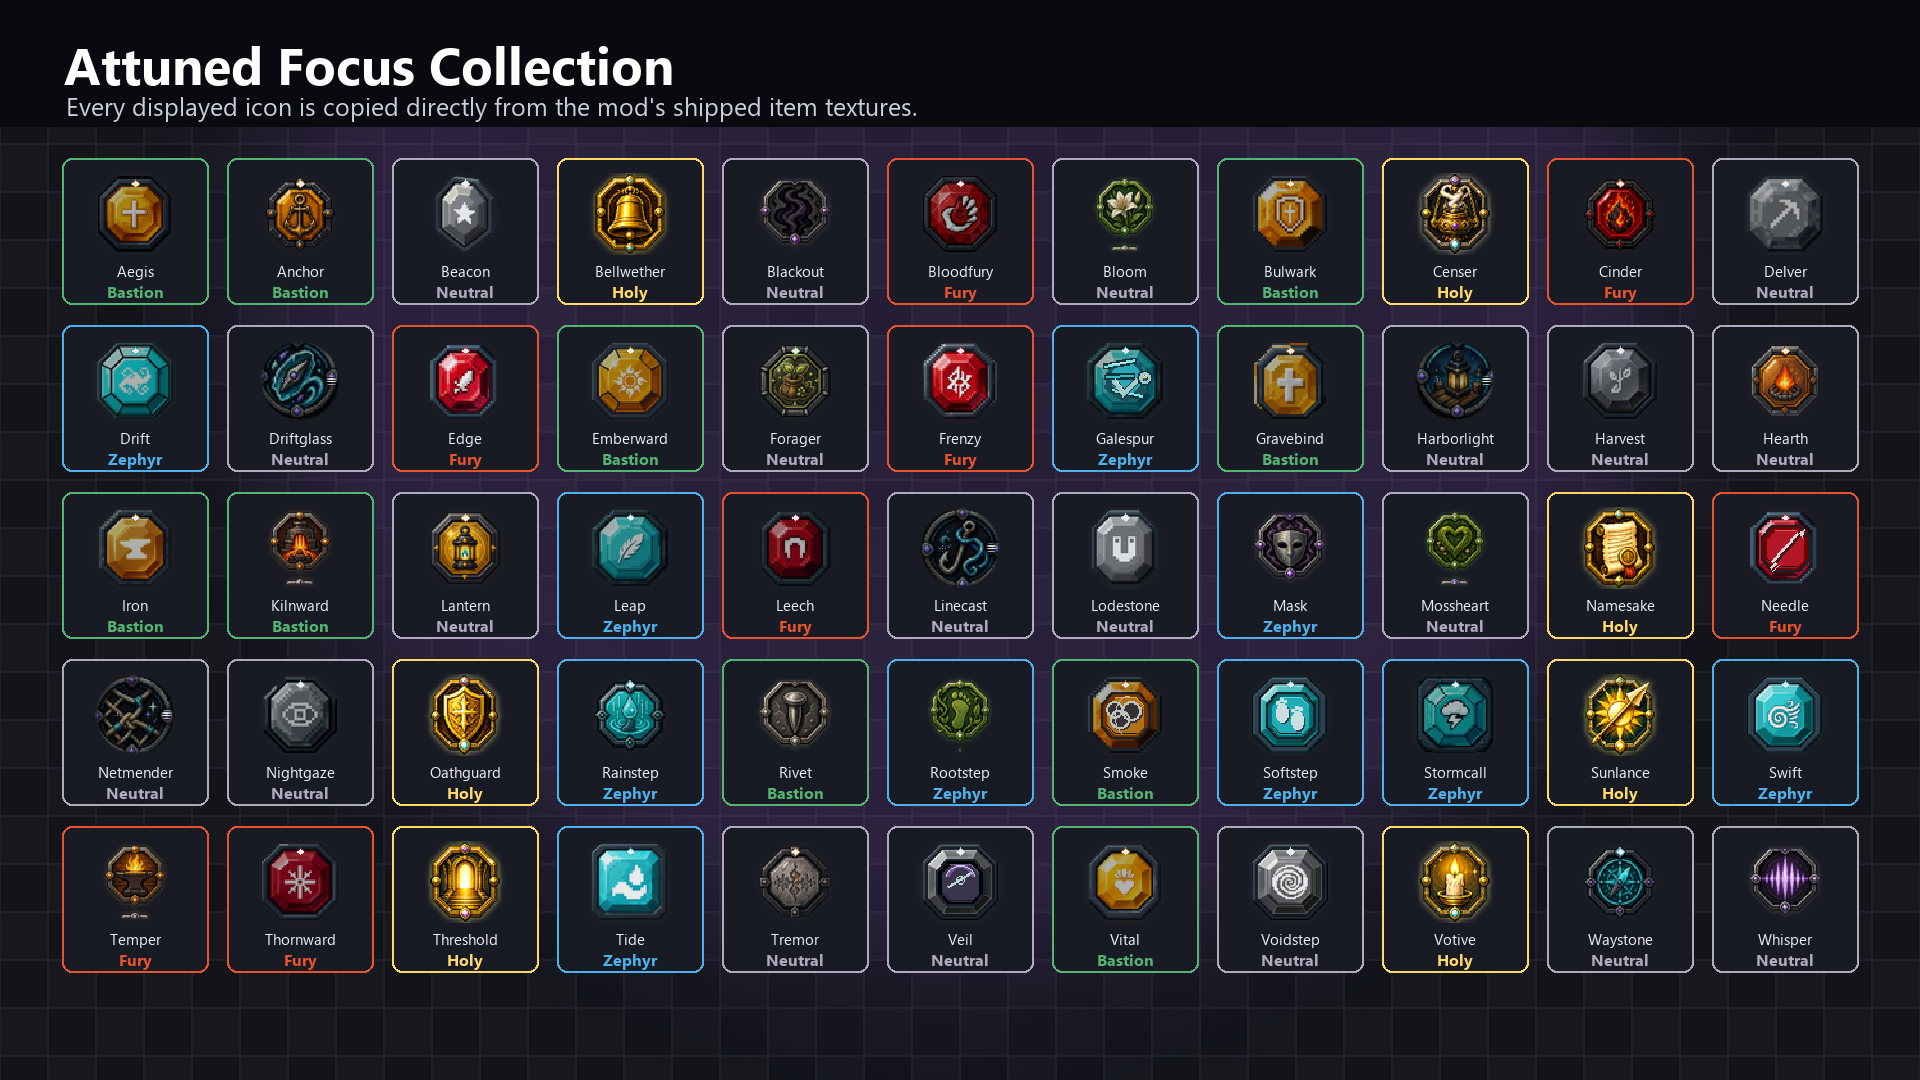
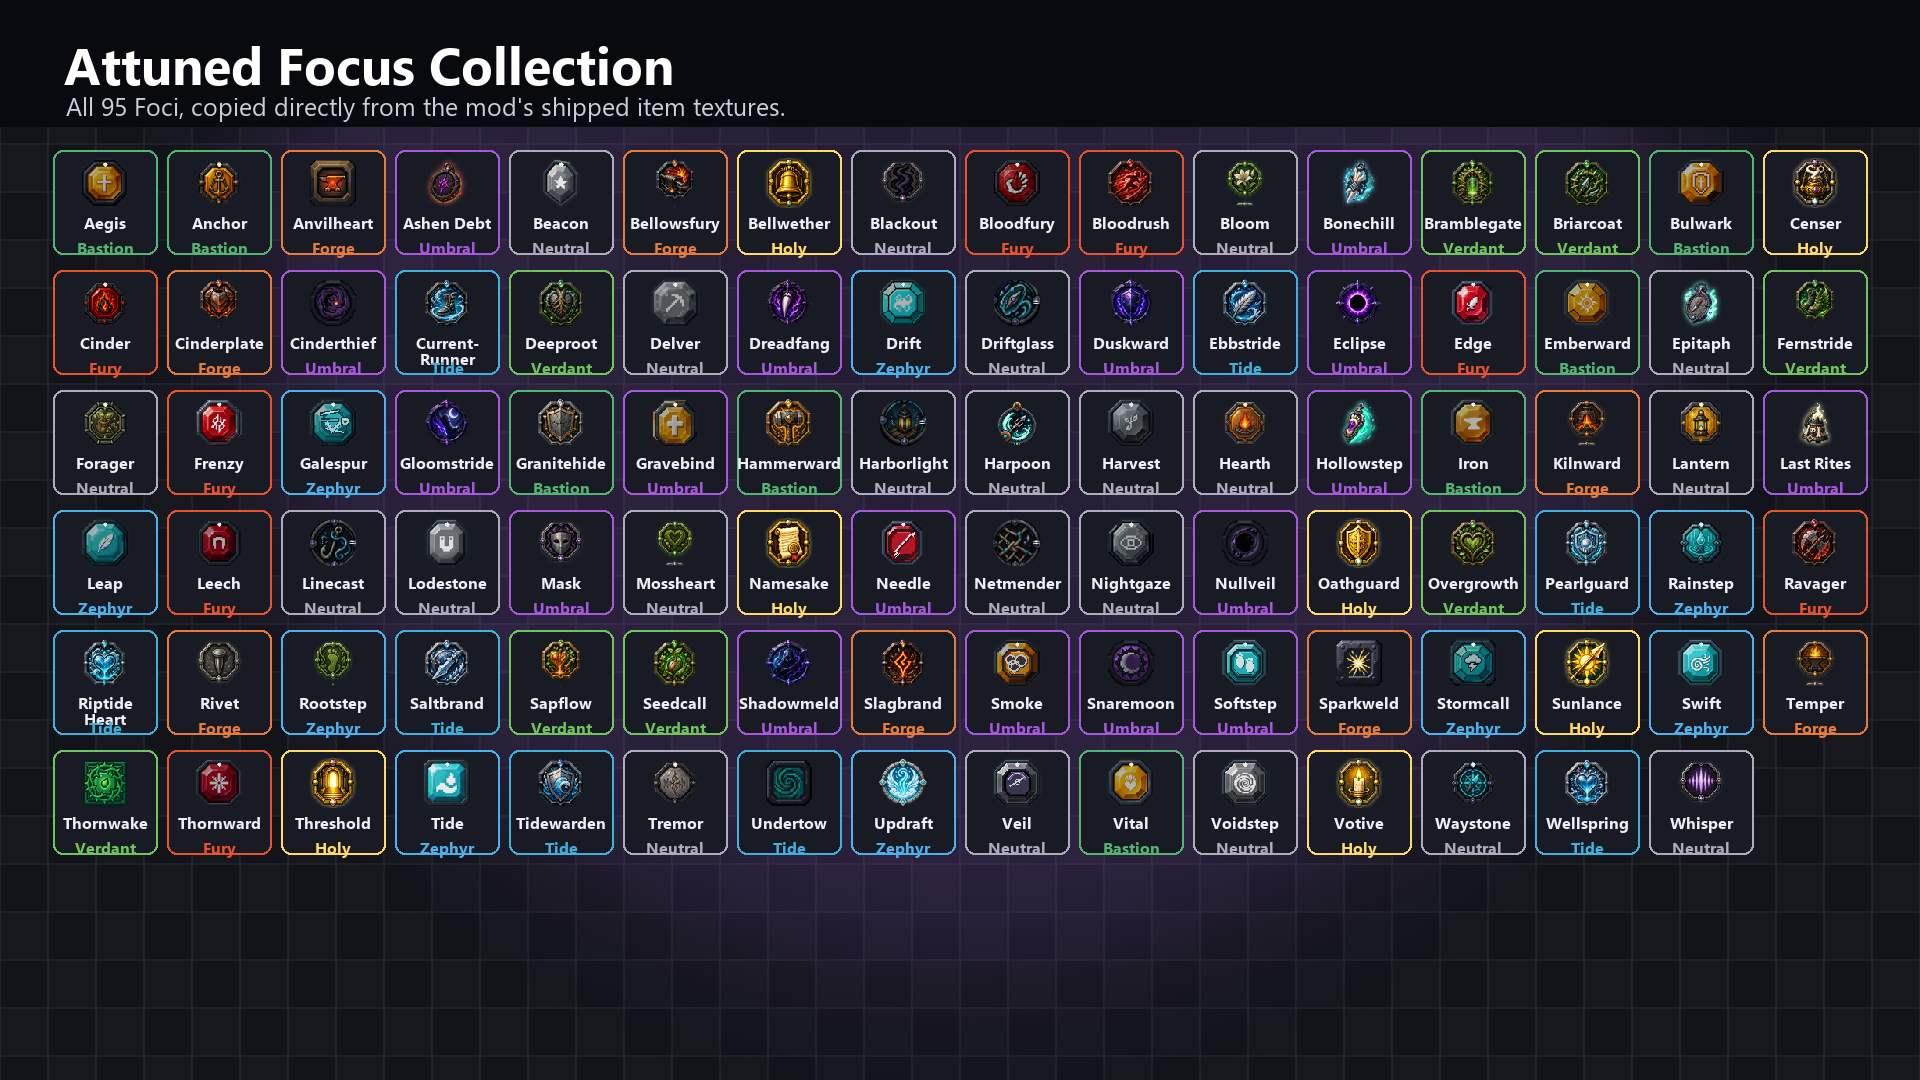
Refresh platform gallery coverage

diff --git a/tools/generate_modrinth_gallery.py b/tools/generate_modrinth_gallery.py
@@ -25,6 +25,10 @@ AFFINITY_LABELS = {
 	"bastion": "Bastion",
 	"zephyr": "Zephyr",
 	"holy": "Holy",
+	"tide": "Tide",
+	"forge": "Forge",
+	"verdant": "Verdant",
+	"umbral": "Umbral",
 	"neutral": "Neutral",
 }
 
@@ -33,6 +37,10 @@ AFFINITY_COLORS = {
 	"bastion": (84, 180, 116),
 	"zephyr": (77, 178, 235),
 	"holy": (255, 218, 105),
+	"tide": (64, 177, 222),
+	"forge": (230, 124, 60),
+	"verdant": (112, 196, 94),
+	"umbral": (168, 88, 220),
 	"neutral": (176, 170, 190),
 }
 
@@ -41,7 +49,38 @@ PANEL_ORDER = [
 	("bastion", "Bastion Foci", "Defensive relics for armor, resistance, survival, and held ground."),
 	("zephyr", "Zephyr Foci", "Mobility relics for speed, air, weather, travel, and quiet movement."),
 	("holy", "Holy Foci", "Radiant and reliquary relics built around light, vows, witness, and protection."),
+	("tide", "Tide Foci", "Water, current, pearl, and seafaring relics for swimming, control, and resilient pressure."),
+	("forge", "Forge Foci", "Cinder, anvil, kiln, and spark relics for heat, armor, toughness, and tempo."),
+	("verdant", "Verdant Foci", "Root, fern, sap, thorn, and seed relics for growth, vitality, and mobile defense."),
 ]
+
+ITEM_PANEL_ASSETS = (
+	("item", "attunement_shard"),
+	("item", "attunement_shard_fragment"),
+	("item", "attunement_journal"),
+	("item", "satchel_of_foci"),
+	("item", "grand_satchel_of_foci"),
+	("item", "ocean_relic_trident"),
+	("item", "frostbound_trident"),
+	("item", "offshore_harpoon"),
+	("item", "custom_focus_1"),
+	("item", "custom_focus_2"),
+	("item", "custom_focus_3"),
+	("item", "custom_focus_4"),
+	("item", "custom_focus_5"),
+	("item", "custom_focus_6"),
+	("item", "custom_focus_7"),
+	("item", "custom_focus_8"),
+	("block", "attunement_altar_top_fury"),
+	("block", "attunement_altar_top_bastion"),
+	("block", "attunement_altar_top_zephyr"),
+	("block", "attunement_altar_top_holy"),
+	("block", "attunement_altar_top_tide"),
+	("block", "attunement_altar_top_forge"),
+	("block", "attunement_altar_top_verdant"),
+	("block", "attunement_altar_top_umbral"),
+	("block", "altar_of_reweaving_top"),
+)
 
 
 @dataclass(frozen=True)
@@ -54,6 +93,15 @@ class Focus:
 	lore: tuple[str, str]
 	effect: str
 	texture: Path
+
+
+@dataclass(frozen=True)
+class GalleryAsset:
+	id: str
+	name: str
+	kind: str
+	texture: Path
+	description: str
 
 
 def load_font(name: str, size: int) -> ImageFont.FreeTypeFont | ImageFont.ImageFont:
@@ -97,6 +145,10 @@ def clean_faction(faction: str) -> str:
 	return raw.replace("_", " ").title()
 
 
+def title_from_id(item_id: str) -> str:
+	return item_id.replace("_", " ").title()
+
+
 def load_foci() -> list[Focus]:
 	lang = json.loads(LANG_FILE.read_text(encoding="utf-8"))
 	foci: list[Focus] = []
@@ -125,6 +177,47 @@ def load_foci() -> list[Focus]:
 			)
 		)
 	return foci
+
+
+def load_gallery_assets() -> list[GalleryAsset]:
+	lang = json.loads(LANG_FILE.read_text(encoding="utf-8"))
+	descriptions = {
+		"attunement_shard": "Capacity progression item used at the Attunement Altar.",
+		"attunement_shard_fragment": "Smaller loot reward; four fragments craft into one shard.",
+		"attunement_journal": "The in-game guide for Foci, pacts, affinities, and matchup reference.",
+		"satchel_of_foci": "Focus Reliquary storage with equipped-slot management and saved builds.",
+		"grand_satchel_of_foci": "Expanded 54-slot reliquary for larger Focus collections.",
+		"ocean_relic_trident": "Seafaring trident model with custom inventory and held art.",
+		"frostbound_trident": "Icy trident model with its own voxel-style item art.",
+		"offshore_harpoon": "Offshore utility weapon art alongside the seafaring relic set.",
+		"custom_focus_1": "Resource-pack-skinnable blank Focus shell for datapack authors.",
+		"custom_focus_2": "Resource-pack-skinnable blank Focus shell for datapack authors.",
+		"custom_focus_3": "Resource-pack-skinnable blank Focus shell for datapack authors.",
+		"custom_focus_4": "Resource-pack-skinnable blank Focus shell for datapack authors.",
+		"custom_focus_5": "Resource-pack-skinnable blank Focus shell for datapack authors.",
+		"custom_focus_6": "Resource-pack-skinnable blank Focus shell for datapack authors.",
+		"custom_focus_7": "Resource-pack-skinnable blank Focus shell for datapack authors.",
+		"custom_focus_8": "Resource-pack-skinnable blank Focus shell for datapack authors.",
+		"attunement_altar_top_fury": "Fury altar variant texture.",
+		"attunement_altar_top_bastion": "Bastion altar variant texture.",
+		"attunement_altar_top_zephyr": "Zephyr altar variant texture.",
+		"attunement_altar_top_holy": "Holy altar variant texture.",
+		"attunement_altar_top_tide": "Tide altar variant texture.",
+		"attunement_altar_top_forge": "Forge altar variant texture.",
+		"attunement_altar_top_verdant": "Verdant altar variant texture.",
+		"attunement_altar_top_umbral": "Umbral altar variant texture.",
+		"altar_of_reweaving_top": "Altar of Reweaving top texture.",
+	}
+	assets: list[GalleryAsset] = []
+	for kind, asset_id in ITEM_PANEL_ASSETS:
+		texture_dir = ITEM_TEXTURE_DIR if kind == "item" else ROOT / "src/main/resources/assets/attuned/textures/block"
+		texture = texture_dir / f"{asset_id}.png"
+		if not texture.exists():
+			raise FileNotFoundError(f"Missing gallery asset texture for {asset_id}: {texture}")
+		lang_key = f"item.attuned.{asset_id}" if kind == "item" else f"block.attuned.{asset_id}"
+		name = lang.get(lang_key, title_from_id(asset_id))
+		assets.append(GalleryAsset(asset_id, name, kind.title(), texture, descriptions[asset_id]))
+	return assets
 
 
 def first_frame(path: Path) -> Image.Image:
@@ -270,14 +363,14 @@ def render_all_foci_index(foci: list[Focus]) -> Path:
 	draw = ImageDraw.Draw(canvas)
 	draw.rectangle((0, 0, WIDTH, 126), fill=(9, 10, 15, 225))
 	draw.text((64, 28), "Attuned Focus Collection", font=FONT_TITLE, fill=(255, 255, 255))
-	draw.text((66, 89), "Every displayed icon is copied directly from the mod's shipped item textures.", font=FONT_SUBTITLE, fill=(203, 207, 218))
+	draw.text((66, 89), f"All {len(foci)} Foci, copied directly from the mod's shipped item textures.", font=FONT_SUBTITLE, fill=(203, 207, 218))
 
-	cols = 11
-	card = 146
-	gap_x = 19
-	gap_y = 21
+	cols = 16
+	card = 104
+	gap_x = 10
+	gap_y = 16
 	start_x = (WIDTH - cols * card - (cols - 1) * gap_x) // 2
-	start_y = 158
+	start_y = 150
 	for idx, focus in enumerate(foci):
 		col = idx % cols
 		row = idx // cols
@@ -285,20 +378,65 @@ def render_all_foci_index(foci: list[Focus]) -> Path:
 		y = start_y + row * (card + gap_y)
 		accent = AFFINITY_COLORS[focus.affinity]
 		rounded_rectangle(draw, (x, y, x + card, y + card), 10, (25, 27, 36, 236), outline=(*accent, 220), width=2)
-		sprite = first_frame(focus.texture).resize((82, 82), Image.Resampling.NEAREST)
-		canvas.alpha_composite(sprite, (x + 32, y + 15))
+		sprite = first_frame(focus.texture).resize((50, 50), Image.Resampling.NEAREST)
+		canvas.alpha_composite(sprite, (x + 27, y + 8))
 		name_lines = textwrap.wrap(focus.name.replace(" Focus", ""), width=12)
-		text_y = y + 102
+		text_y = y + 61
 		for line in name_lines[:2]:
-			w = draw.textlength(line, font=FONT_SMALL)
-			draw.text((x + (card - w) / 2, text_y), line, font=FONT_SMALL, fill=(238, 239, 244))
-			text_y += 18
+			w = draw.textlength(line, font=FONT_LABEL)
+			draw.text((x + (card - w) / 2, text_y), line, font=FONT_LABEL, fill=(238, 239, 244))
+			text_y += 16
 		aff = AFFINITY_LABELS[focus.affinity]
 		w = draw.textlength(aff, font=FONT_LABEL)
-		draw.text((x + (card - w) / 2, y + card - 24), aff, font=FONT_LABEL, fill=accent)
+		draw.text((x + (card - w) / 2, y + card - 18), aff, font=FONT_LABEL, fill=accent)
 
 	OUT_DIR.mkdir(parents=True, exist_ok=True)
 	out = OUT_DIR / "attuned-all-foci-real-assets.png"
+	canvas.convert("RGB").save(out, quality=96)
+	return out
+
+
+def draw_gallery_asset_card(canvas: Image.Image, asset: GalleryAsset, box: tuple[int, int, int, int]) -> None:
+	draw = ImageDraw.Draw(canvas)
+	x0, y0, x1, y1 = box
+	accent = (151, 217, 150) if asset.kind == "Item" else (105, 185, 235)
+	rounded_rectangle(draw, box, 12, (25, 27, 36, 235), outline=(*accent, 230), width=2)
+	draw.rectangle((x0 + 2, y0 + 2, x1 - 2, y0 + 48), fill=(*accent, 38))
+	draw.text((x0 + 18, y0 + 15), asset.name, font=FONT_CARD_TITLE, fill=(252, 252, 255))
+
+	icon_back = (x0 + 22, y0 + 72, x0 + 138, y0 + 188)
+	rounded_rectangle(draw, icon_back, 10, (11, 12, 17, 255), outline=(73, 75, 89), width=2)
+	sprite = first_frame(asset.texture).resize((88, 88), Image.Resampling.NEAREST)
+	canvas.alpha_composite(sprite, (x0 + 36, y0 + 86))
+
+	chip(draw, x0 + 156, y0 + 78, asset.kind, accent, text_fill=(16, 16, 18))
+	draw_text(draw, (x0 + 156, y0 + 122), asset.description, FONT_BODY, (226, 228, 236), x1 - x0 - 180, line_spacing=4, max_lines=4)
+
+
+def render_items_and_altars_panel(assets: list[GalleryAsset]) -> Path:
+	canvas = make_background((126, 173, 223))
+	draw = ImageDraw.Draw(canvas)
+	draw.rectangle((0, 0, WIDTH, 126), fill=(9, 10, 15, 225))
+	draw.text((64, 28), "Items, Tools & Altars", font=FONT_TITLE, fill=(255, 255, 255))
+	draw.text((66, 89), "Shipped item textures, custom Focus shells, tridents, reliquaries, shards, and affinity altar variants.", font=FONT_SUBTITLE, fill=(203, 207, 218))
+
+	cols = 5
+	rows = math.ceil(len(assets) / cols)
+	margin_x = 54
+	gap_x = 18
+	gap_y = 18
+	top = 150
+	card_w = (WIDTH - margin_x * 2 - gap_x * (cols - 1)) // cols
+	card_h = (HEIGHT - top - 54 - gap_y * (rows - 1)) // rows
+	for idx, asset in enumerate(assets):
+		col = idx % cols
+		row = idx // cols
+		x0 = margin_x + col * (card_w + gap_x)
+		y0 = top + row * (card_h + gap_y)
+		draw_gallery_asset_card(canvas, asset, (x0, y0, x0 + card_w, y0 + card_h))
+
+	OUT_DIR.mkdir(parents=True, exist_ok=True)
+	out = OUT_DIR / "attuned-items-tools-and-altars.png"
 	canvas.convert("RGB").save(out, quality=96)
 	return out
 
@@ -462,6 +600,7 @@ def render_apex_stances_panel(foci: list[Focus]) -> Path:
 
 def main() -> None:
 	foci = load_foci()
+	gallery_assets = load_gallery_assets()
 	by_affinity: dict[str, list[Focus]] = {}
 	for focus in foci:
 		by_affinity.setdefault(focus.affinity, []).append(focus)
@@ -475,9 +614,14 @@ def main() -> None:
 	for affinity, title, subtitle in PANEL_ORDER:
 		outputs.append(render_panel(title, subtitle, by_affinity[affinity]))
 
+	umbral = by_affinity["umbral"]
+	outputs.append(render_panel("Umbral Foci I", "Shadow, smoke, debt, dread, and ambush relics for the first half of the Umbral lane.", umbral[:9]))
+	outputs.append(render_panel("Umbral Foci II", "Null, snare, rite, eclipse, and low-light relics for the second half of the Umbral lane.", umbral[9:]))
+
 	neutral = by_affinity["neutral"]
 	outputs.append(render_panel("Neutral Foci I", "Utility, exploration, farming, mining, and survival relics with no affinity lock.", neutral[:10]))
 	outputs.append(render_panel("Neutral Foci II", "Seafarers, Unseen, Verdant, travel, and mixed-build utility relics.", neutral[10:]))
+	outputs.append(render_items_and_altars_panel(gallery_assets))
 
 	print("Generated Modrinth gallery panels:")
 	for output in outputs:

diff --git a/tests/test_modrinth_gallery_contract.py b/tests/test_modrinth_gallery_contract.py
@@ -24,6 +24,24 @@ class ModrinthGalleryContractTest(unittest.TestCase):
 		self.assertIn("suppresses affinity pressure", self.source)
 		self.assertIn("uses Absorption pulses", self.source)
 
+	def test_gallery_covers_all_eight_affinities_and_item_assets(self) -> None:
+		for affinity in ("fury", "bastion", "zephyr", "holy", "tide", "forge", "verdant", "umbral"):
+			self.assertIn(f'"{affinity}"', self.source)
+		for panel in (
+			"Tide Foci",
+			"Forge Foci",
+			"Verdant Foci",
+			"Umbral Foci I",
+			"Umbral Foci II",
+			"Items, Tools & Altars",
+		):
+			self.assertIn(panel, self.source)
+		self.assertIn("attuned-items-tools-and-altars.png", self.source)
+		self.assertIn("attunement_altar_top_tide", self.source)
+		self.assertIn("attunement_altar_top_forge", self.source)
+		self.assertIn("attunement_altar_top_verdant", self.source)
+		self.assertIn("attunement_altar_top_umbral", self.source)
+
 
 if __name__ == "__main__":
 	unittest.main()

diff --git a/tools/verify_repository.py b/tools/verify_repository.py
@@ -39,10 +39,16 @@ EXPECTED_MODRINTH_GALLERY_PNGS = (
     "attuned-all-foci-real-assets.png",
     "attuned-apex-discord-neutral.png",
     "attuned-bastion-foci.png",
+    "attuned-forge-foci.png",
     "attuned-fury-foci.png",
     "attuned-holy-foci.png",
+    "attuned-items-tools-and-altars.png",
     "attuned-neutral-foci-i.png",
     "attuned-neutral-foci-ii.png",
+    "attuned-tide-foci.png",
+    "attuned-umbral-foci-i.png",
+    "attuned-umbral-foci-ii.png",
+    "attuned-verdant-foci.png",
     "attuned-zephyr-foci.png",
 )
 MODRINTH_GALLERY_SIZE = (1920, 1080)
